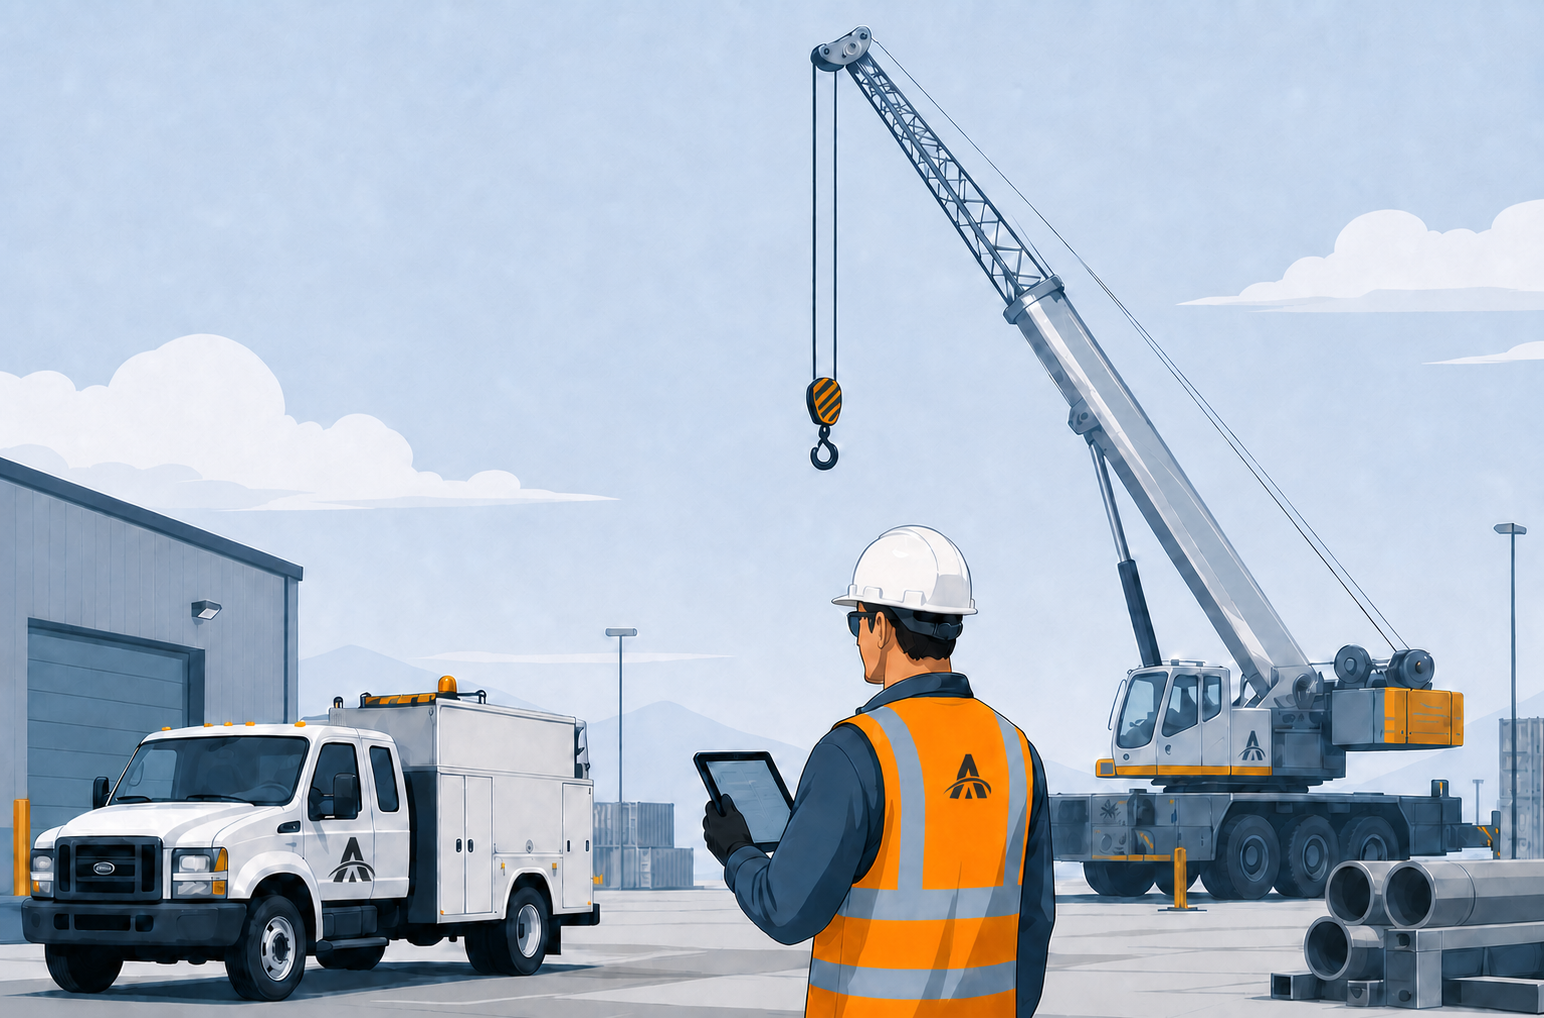
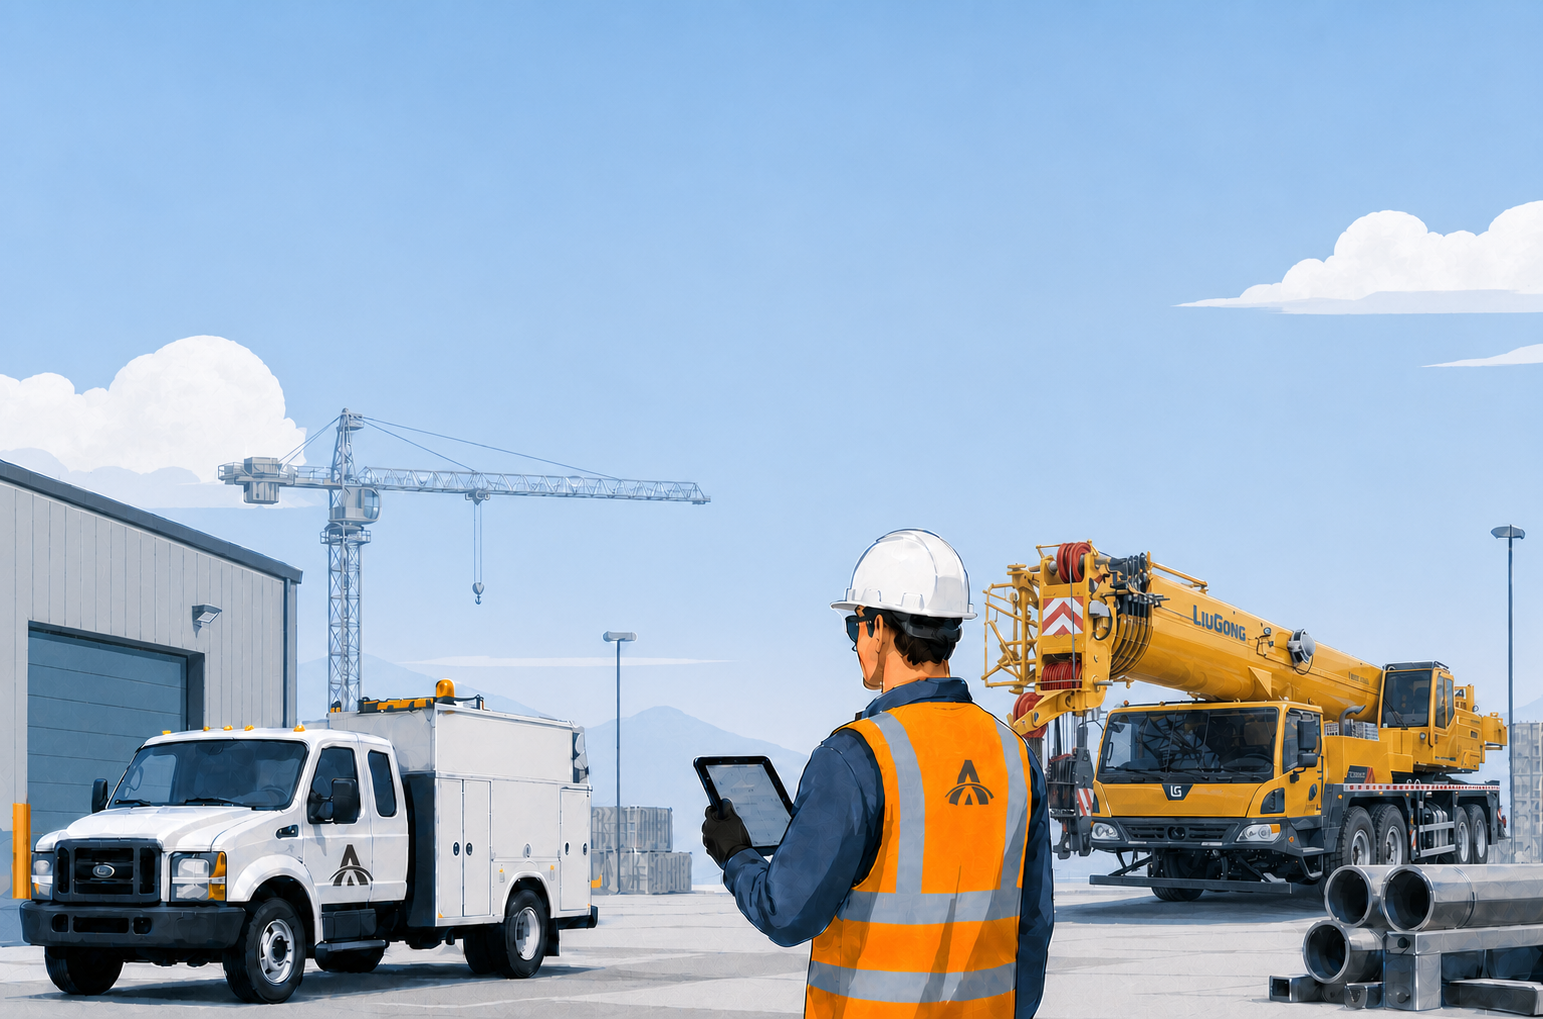
refactor: reorganize field mobile component structure into modular screens cards sheets panels and layout subdirectories

diff --git a/packages/field-mobile/src/screens/AssignedJobsListScreen.tsx b/packages/field-mobile/src/screens/AssignedJobsListScreen.tsx
@@ -10,13 +10,13 @@ import {
     View,
 } from 'react-native';
 import type { DispatchJob, OutboxCommand } from '../types/index';
-import { FieldBottomNav, type FieldNavItem } from './field-bottom-nav';
-import { FieldHeader, type SyncTone } from './field-header';
-import { PlannedRoutePanel } from './planned-route-panel';
-import { NotificationsSheet } from './notifications-sheet';
-import { ProfileSheet } from './profile-sheet';
-import { SyncStatusPanel } from './sync-status-panel';
-import { colors, sharedStyles } from './nativeStyles';
+import { FieldBottomNav, type FieldNavItem } from '../components/layout/field-bottom-nav';
+import { FieldHeader, type SyncTone } from '../components/layout/field-header';
+import { PlannedRoutePanel } from '../components/panels/planned-route-panel';
+import { NotificationsSheet } from '../components/sheets/notifications-sheet';
+import { ProfileSheet } from '../components/sheets/profile-sheet';
+import { SyncStatusPanel } from '../components/panels/sync-status-panel';
+import { colors, sharedStyles } from '../components/nativeStyles';
 
 export interface AssignedJobsListScreenProps {
     jobs: DispatchJob[];

diff --git a/packages/field-mobile/src/screens/JobDetailScreen.tsx b/packages/field-mobile/src/screens/JobDetailScreen.tsx
@@ -22,12 +22,12 @@ import type {
     OutboxCommand,
     User,
 } from '../types/index';
-import { AssignmentResponseCard } from './AssignmentResponseCard';
-import { CommandConflictBanner } from './CommandConflictBanner';
-import { FieldProgressionStepper } from './FieldProgressionStepper';
-import { HeavyCraneRouteCard } from './HeavyCraneRouteCard';
-import { LocationSharingCard } from './LocationSharingCard';
-import { colors, sharedStyles } from './nativeStyles';
+import { AssignmentResponseCard } from '../components/cards/AssignmentResponseCard';
+import { CommandConflictBanner } from '../components/panels/CommandConflictBanner';
+import { FieldProgressionStepper } from '../components/layout/FieldProgressionStepper';
+import { HeavyCraneRouteCard } from '../components/cards/HeavyCraneRouteCard';
+import { LocationSharingCard } from '../components/cards/LocationSharingCard';
+import { colors, sharedStyles } from '../components/nativeStyles';
 
 export interface JobDetailScreenProps {
     job: DispatchJob;

diff --git a/packages/field-mobile/src/index.ts b/packages/field-mobile/src/index.ts
@@ -1,4 +1,4 @@
-export * from './types/index';
+export * from './types/index';
 export * from './services/apiClient';
 export * from './services/commandOutbox';
 export * from './services/locationService';
@@ -10,9 +10,6 @@ export * from './auth/config';
 export * from './auth/AuthContext';
 export * from './auth/LoginScreen';
 export * from './navigation/AppNavigator';
-export * from './components/CommandConflictBanner';
-export * from './components/AssignmentResponseCard';
-export * from './components/FieldProgressionStepper';
-export * from './components/LocationSharingCard';
-export * from './components/AssignedJobsListScreen';
-export * from './components/JobDetailScreen';
+export * from './components/index';
+export * from './screens/AssignedJobsListScreen';
+export * from './screens/JobDetailScreen';

diff --git a/packages/field-mobile/src/navigation/AppNavigator.tsx b/packages/field-mobile/src/navigation/AppNavigator.tsx
@@ -23,8 +23,8 @@ import { useAuth } from '../auth/AuthContext';
 import { offlineSessionVerificationError } from '../auth/AuthContext';
 import { isAuthorizedFieldRole } from '../auth/fieldRoles';
 import { LoginScreen } from '../auth/LoginScreen';
-import { AssignedJobsListScreen } from '../components/AssignedJobsListScreen';
-import { JobDetailScreen } from '../components/JobDetailScreen';
+import { AssignedJobsListScreen } from '../screens/AssignedJobsListScreen';
+import { JobDetailScreen } from '../screens/JobDetailScreen';
 import { colors, sharedStyles } from '../components/nativeStyles';
 import { defaultNetworkMonitor } from '../connectivity/networkMonitor';
 import type { NetworkMonitor } from '../connectivity/networkMonitor';

diff --git a/packages/field-mobile/src/components/sheets/notifications-sheet.tsx b/packages/field-mobile/src/components/sheets/notifications-sheet.tsx
@@ -1,8 +1,8 @@
 import React, { useContext, useEffect, useRef } from 'react';
 import { Animated, Modal, PanResponder, Pressable, ScrollView, StyleSheet, Text, View } from 'react-native';
 import { SafeAreaInsetsContext } from 'react-native-safe-area-context';
-import type { OutboxCommand, DispatchJob } from '../types/index';
-import { colors, sharedStyles } from './nativeStyles';
+import type { OutboxCommand, DispatchJob } from '../../types/index';
+import { colors, sharedStyles } from '../nativeStyles';
 
 export interface FieldNotificationItem {
     id: string;

diff --git a/packages/field-mobile/src/__tests__/app.component.test.tsx b/packages/field-mobile/src/__tests__/app.component.test.tsx
@@ -10,7 +10,7 @@ import '@testing-library/react-native/matchers';
 import React from 'react';
 import { App } from '../../App';
 import type { TokenStorageProvider } from '../auth/tokenStorage';
-import { AssignedJobsListScreen } from '../components/AssignedJobsListScreen';
+import { AssignedJobsListScreen } from '../screens/AssignedJobsListScreen';
 import type { NetworkMonitor } from '../connectivity/networkMonitor';
 import { MemoryOutboxRepository } from '../storage/outboxRepository';
 import type { PayloadHasher } from '../storage/outboxRepository';

diff --git a/packages/field-mobile/src/components/index.ts b/packages/field-mobile/src/components/index.ts
@@ -1,0 +1,12 @@
+export * from './nativeStyles';
+export * from './layout/field-header';
+export * from './layout/field-bottom-nav';
+export * from './layout/FieldProgressionStepper';
+export * from './sheets/profile-sheet';
+export * from './sheets/notifications-sheet';
+export * from './panels/sync-status-panel';
+export * from './panels/planned-route-panel';
+export * from './panels/CommandConflictBanner';
+export * from './cards/AssignmentResponseCard';
+export * from './cards/HeavyCraneRouteCard';
+export * from './cards/LocationSharingCard';

diff --git a/packages/field-mobile/src/components/cards/AssignmentResponseCard.tsx b/packages/field-mobile/src/components/cards/AssignmentResponseCard.tsx
@@ -1,7 +1,7 @@
-import React, { useState } from 'react';
+import React, { useState } from 'react';
 import { Pressable, StyleSheet, Text, TextInput, View } from 'react-native';
-import type { DispatchJob } from '../types/index';
-import { colors, sharedStyles } from './nativeStyles';
+import type { DispatchJob } from '../../types/index';
+import { colors, sharedStyles } from '../nativeStyles';
 
 export interface AssignmentResponseCardProps {
     job: DispatchJob;

diff --git a/packages/field-mobile/src/components/cards/LocationSharingCard.tsx b/packages/field-mobile/src/components/cards/LocationSharingCard.tsx
@@ -9,9 +9,9 @@ import {
 import type {
     LocationCoordinates,
     LocationSharingService,
-} from '../services/locationService';
-import type { DispatchJob, User } from '../types/index';
-import { colors, sharedStyles } from './nativeStyles';
+} from '../../services/locationService';
+import type { DispatchJob, User } from '../../types/index';
+import { colors, sharedStyles } from '../nativeStyles';
 
 export interface LocationSharingCardProps {
     user: User;

diff --git a/packages/field-mobile/src/components/layout/FieldProgressionStepper.tsx b/packages/field-mobile/src/components/layout/FieldProgressionStepper.tsx
@@ -1,7 +1,7 @@
-import React from 'react';
+import React from 'react';
 import { Pressable, StyleSheet, Text, View } from 'react-native';
-import type { DispatchJob, DispatchStatus } from '../types/index';
-import { colors, sharedStyles } from './nativeStyles';
+import type { DispatchJob, DispatchStatus } from '../../types/index';
+import { colors, sharedStyles } from '../nativeStyles';
 
 export interface FieldProgressionStepperProps {
     job: DispatchJob;

diff --git a/packages/field-mobile/src/components/panels/CommandConflictBanner.tsx b/packages/field-mobile/src/components/panels/CommandConflictBanner.tsx
@@ -1,7 +1,7 @@
 import React from 'react';
 import { Pressable, StyleSheet, Text, View } from 'react-native';
-import type { OutboxCommand } from '../types/index';
-import { colors, sharedStyles } from './nativeStyles';
+import type { OutboxCommand } from '../../types/index';
+import { colors, sharedStyles } from '../nativeStyles';
 
 export interface CommandConflictBannerProps {
     conflictedCommands: OutboxCommand[];

diff --git a/packages/field-mobile/src/components/panels/sync-status-panel.tsx b/packages/field-mobile/src/components/panels/sync-status-panel.tsx
@@ -1,7 +1,7 @@
 import React from 'react';
 import { Pressable, StyleSheet, Text, View } from 'react-native';
-import type { OutboxCommand } from '../types/index';
-import { colors, sharedStyles } from './nativeStyles';
+import type { OutboxCommand } from '../../types/index';
+import { colors, sharedStyles } from '../nativeStyles';
 
 export interface SyncStatusPanelProps {
     showDetails: boolean;
